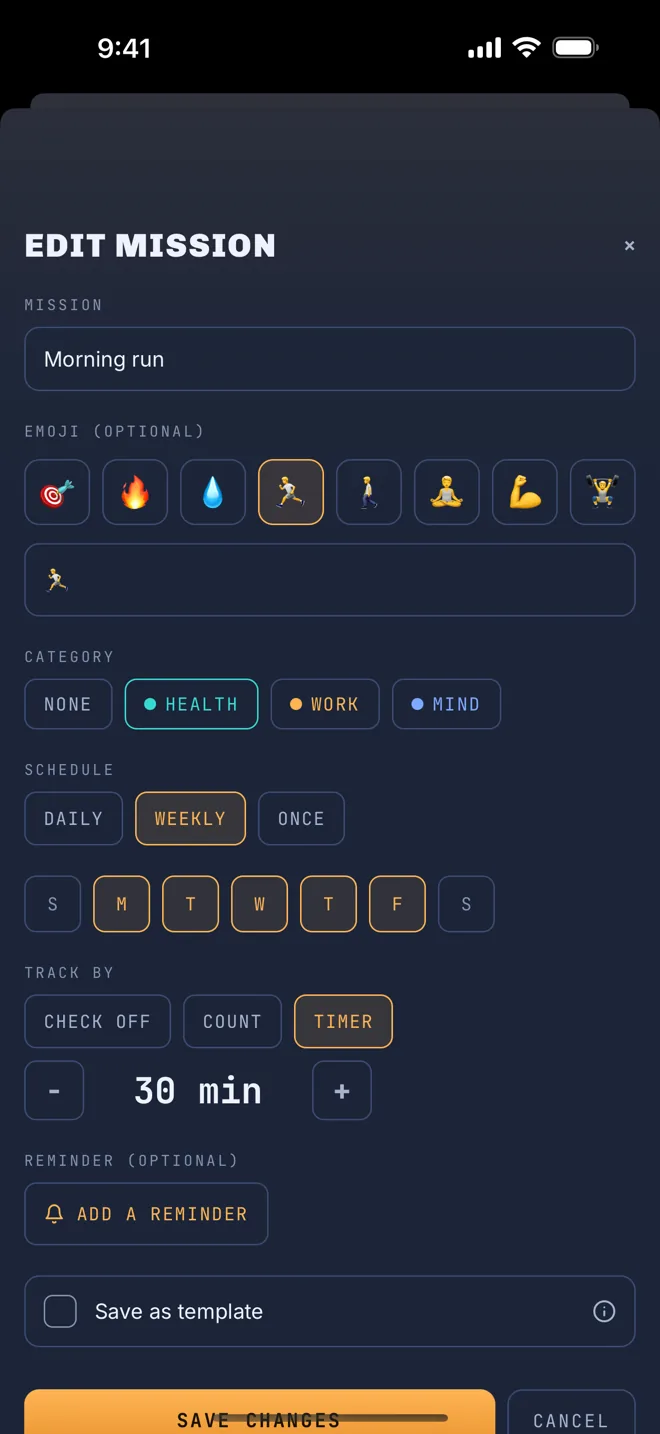
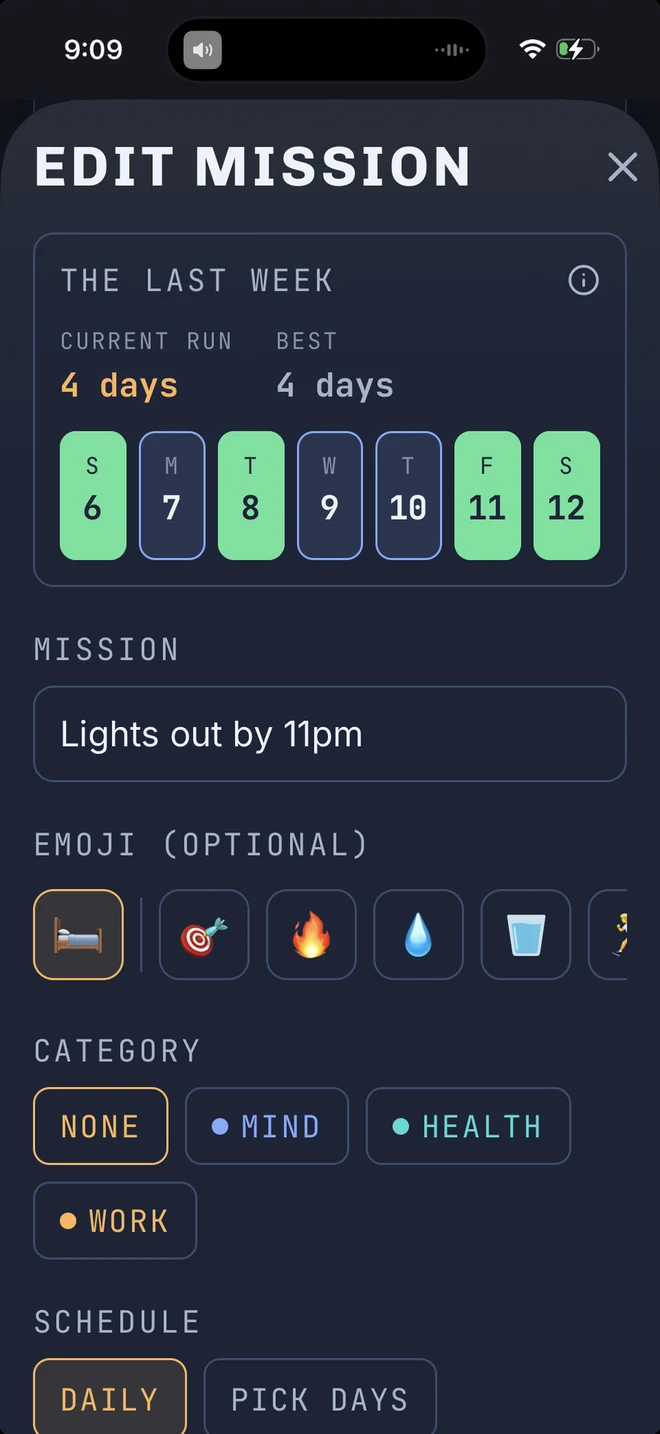
Three more scenes become the screens they claim to be
n2 · the Club tab. It reused s6, which ran the tab strip along the TOP of
the card. This app's tab bar is at the BOTTOM, and that matters here more
than anywhere else in the film: the line says "the third tab", and a
viewer can only check that against a bar where their thumb expects it.
The rank card, the two stacked buttons and the challenge row are the real
screen too. The third tab lights and underlines itself on the line that
names it.

b3 · all or nothing. It reused s3 — another MISSION CONTROL console the
app has never had — and it showed one day completing, which is what b4
does two scenes later. So the film drew the same picture twice and the
RULE, the thing the scene exists for, was never shown at all. Two days
side by side now: one cleared, paying a Tpoint; one short by a single
mission, paying nothing. The short ring is amber rather than faint grey,
which was invisible against its own track.

And the homepage editor shot is a real capture at last. The old one was a
simulator frame at a different UI scale — everything in it rendered
smaller than the three beside it, under a band of modal backdrop — and it
showed an editor that has since changed: WEEKLY/ONCE where the app now
says DAILY / PICK DAYS, and no last-week strip. Alt text and caption
rewritten to describe the screen that is actually there.

Claude-Session: https://claude.ai/code/session_015v4iv7JgLx8rptzk59XzNv

diff --git a/film2.js b/film2.js
@@ -103,6 +103,13 @@ const COPY = {
     'n1.vo': 'You already know what you should be doing. Nobody sticks to it alone.',
 
     /* ---- n2 · pick the thing, pick the people ---- */
+    /* The Club tab, off a photograph of it. */
+    'n2.screen': 'CHECK-IN CLUB',
+    'n2.rankLabel': 'CLUB RANK',
+    'n2.rankName': 'CONTENDER',
+    'n2.score': 'CLUB SCORE',
+    'n2.create': '\u2691 CREATE CHALLENGE',
+    'n2.joinCode': 'I HAVE A JOIN CODE',
     'n2.cap1': 'So pick one thing. Then pick the people who will <span class="hi">notice</span>.',
     'n2.cap2': 'The Check-in Club is the third tab — the only part that needs an account.',
     'n2.cap3': 'Invite-only. <span class="go">Nobody outside it sees a thing.</span>',
@@ -369,6 +376,11 @@ const COPY = {
     'b2.cap2': 'Tap one done, count the water or the pages, or <span class="go">start a timer and work until it rings</span>.',
     'b2.vo': 'Put the things you actually meant to do on it. Tap one done, count the water or the pages, or start a timer and work until it rings.',
 
+    'b3.label': 'TODAY\u2019S TPOINT',
+    'b3.full': '5 of 5 done',
+    'b3.paid': '+1 TPOINT',
+    'b3.short': '4 of 5 done',
+    'b3.nothing': 'NO TPOINT',
     'b3.cap1': 'Clear the whole day and it pays out: <span class="go">one Tpoint</span>.',
     'b3.cap2': 'Miss one and it pays nothing — <span class="hi">the day is what counts</span>, not the task.',
     'b3.vo': 'Clear the whole day and it pays out one Tpoint. Miss one and it pays nothing — the day is what counts, not the task.',
@@ -460,6 +472,12 @@ const COPY = {
     'n1.vo': '該做什麼，你其實都知道。一個人，很難撐下去。',
 
     /* ---- n2 ---- */
+    'n2.screen': '打卡俱樂部',
+    'n2.rankLabel': '俱樂部等級',
+    'n2.rankName': '挑戰者',
+    'n2.score': '俱樂部積分',
+    'n2.create': '\u2691 發起挑戰',
+    'n2.joinCode': '我有邀請碼',
     'n2.cap1': '挑一件事，再找幾個<span class="hi">會在意你有沒有做</span>的人。',
     'n2.cap2': '打卡俱樂部是第三個分頁，也是唯一需要帳號的地方。',
     'n2.cap3': '只能邀請加入。<span class="go">外面的人什麼都看不到。</span>',
@@ -712,6 +730,11 @@ const COPY = {
     'b2.cap2': '打個勾、計次，或<span class="go">按下計時器，專心做到鈴響</span>。',
     'b2.vo': '把你真正想做的事放上去。打個勾、計次，或按下計時器，專心做到鈴響。',
 
+    'b3.label': '今天的 T點數',
+    'b3.full': '5 項全部完成',
+    'b3.paid': '+1 T點數',
+    'b3.short': '5 項完成 4 項',
+    'b3.nothing': '沒有 T點數',
     'b3.cap1': '整天清空，才拿得到<span class="go">一點 T 點數</span>。',
     'b3.cap2': '漏一項就沒有——這裡算的是<span class="hi">一整天</span>，不是單項。',
     'b3.vo': '整天清空才拿得到一點 T 點數。漏一項就沒有，這裡算的是一整天，不是單項。',
@@ -1184,7 +1207,7 @@ function escText(s) { return String(s).replace(/&/g, '&amp;').replace(/</g, '&lt
      Every clip is cut to finish inside its scene's `dur` — see tools/
      generate-vo.mjs, which measures each render and rejects one that would be
      truncated by the scene change. */
-  const VOV = 12;
+  const VOV = 13;
   /* Real check-ins, used in n5. Listed here so warmVO can decode them. */
   const PROOF_SHOTS = ['/assets/proof/run.jpg', '/assets/proof/swim.jpg', '/assets/proof/cycle.jpg'];
   /* The arena cut reuses the combined cut's clips unchanged — it is the same
@@ -2713,6 +2736,117 @@ function buildScenes(ctx, cut) {
     },
   };
 
+  /* b3 · all or nothing, shown as two days.
+     ------------------------------------------------------------------
+     This reused s3, another MISSION CONTROL console that no screen in the
+     app has. It also showed one day completing — which is what b4 does two
+     scenes later, so the film made the same picture twice and the RULE, the
+     thing this scene is for, was never actually shown.
+
+     The rule needs two days to be visible at all: a cleared one pays a
+     Tpoint, and one short by a single mission pays nothing. Side by side is
+     the only way to say "the day is what counts, not the task" without
+     asking the viewer to hold a counterfactual in their head. */
+  const b3 = {
+    id: 'b3', dur: 7800,
+    vo: t('b3.vo'),
+    caps: capsFor('b3'),
+    render(node) {
+      ambient(node, 'rgba(91,227,155,.08)', 900);
+      const c = appCol(node, 640);
+      drift(c, 7800, 1.025);
+
+      const label = el('div', 'fm-mono', {
+        fontSize: '10px', letterSpacing: '.2em', color: COL.dim,
+        textAlign: 'center', marginBottom: '16px', opacity: '0',
+      });
+      label.textContent = t('b3.label');
+      c.appendChild(label);
+      anim(label, [
+        { opacity: 0, transform: 'translateY(8px)' },
+        { opacity: 1, transform: 'translateY(0px)' },
+      ], { duration: 600, easing: EASE, fill: 'both' });
+
+      const row = el('div', null, { display: 'flex', gap: '20px', justifyContent: 'center' });
+      c.appendChild(row);
+
+      const R = 30, CIRC = 2 * Math.PI * R;
+      /** One day, as the ring card on Today draws it. */
+      function day(fraction, doneText, payText, paid) {
+        const card = el('div', 'fm-panel', {
+          width: '250px', flex: '0 0 auto', padding: '22px 20px 20px',
+          textAlign: 'center', opacity: '0',
+          border: '1px solid ' + (paid ? 'rgba(91,227,155,.45)' : COL.line),
+        });
+        const ring = el('div', null, { width: '74px', height: '74px', margin: '0 auto 14px' });
+        ring.innerHTML =
+          '<svg viewBox="0 0 74 74" style="width:74px;height:74px;transform:rotate(-90deg)">' +
+          '<circle cx="37" cy="37" r="' + R + '" fill="none" stroke="' + COL.line + '" stroke-width="5"/>' +
+          '<circle class="js-arc" cx="37" cy="37" r="' + R + '" fill="none" ' +
+          'stroke="' + (paid ? COL.go : COL.amber) + '" stroke-width="5" stroke-linecap="round" ' +
+          'stroke-dasharray="' + CIRC + '" stroke-dashoffset="' + CIRC + '"/></svg>';
+        const doneEl = el('div', 'fm-disp', {
+          fontSize: '18px', fontWeight: '800', color: paid ? COL.ink : COL.dim,
+        });
+        doneEl.textContent = doneText;
+        const payEl = el('div', 'fm-mono js-pay', {
+          fontSize: '13px', marginTop: '9px', letterSpacing: '.06em',
+          color: paid ? COL.go : COL.faint, opacity: '0',
+        });
+        payEl.textContent = payText;
+        card.append(ring, doneEl, payEl);
+        row.appendChild(card);
+        card._arc = ring.querySelector('.js-arc');
+        card._pay = payEl;
+        card._fraction = fraction;
+        return card;
+      }
+
+      const cleared = day(1, t('b3.full'), t('b3.paid'), true);
+      const short = day(0.8, t('b3.short'), t('b3.nothing'), false);
+
+      /* The cleared day lands first and pays. */
+      after(500, () => {
+        anim(cleared, [
+          { opacity: 0, transform: 'translateY(18px) scale(.97)', filter: 'blur(8px)' },
+          { opacity: 1, transform: 'translateY(0px) scale(1)', filter: 'blur(0px)' },
+        ], { duration: 760, easing: EASE, fill: 'both' });
+        anim(cleared._arc, [{ strokeDashoffset: CIRC }, { strokeDashoffset: 0 }],
+          { duration: 900, delay: 260, easing: EASE, fill: 'both' });
+      });
+      after(1700, () => {
+        anim(cleared._pay, [
+          { opacity: 0, transform: 'scale(.7)' },
+          { opacity: 1, transform: 'scale(1.15)' },
+          { opacity: 1, transform: 'scale(1)' },
+        ], { duration: 520, easing: POP, fill: 'both' });
+        anim(cleared, [
+          { boxShadow: '0 0 0 0 rgba(91,227,155,0)' },
+          { boxShadow: '0 0 30px -6px rgba(91,227,155,.5)' },
+          { boxShadow: '0 0 0 0 rgba(91,227,155,0)' },
+        ], { duration: 1100 });
+        sfx.chime();
+        boboTada();
+      });
+
+      /* …and the day that was one mission short arrives beside it, and does
+         not. The ring stops just short on purpose: four fifths of a circle
+         reads as "so close" faster than the number does. */
+      after(3300, () => {
+        anim(short, [
+          { opacity: 0, transform: 'translateY(18px) scale(.97)', filter: 'blur(8px)' },
+          { opacity: 1, transform: 'translateY(0px) scale(1)', filter: 'blur(0px)' },
+        ], { duration: 760, easing: EASE, fill: 'both' });
+        anim(short._arc, [{ strokeDashoffset: CIRC }, { strokeDashoffset: CIRC * (1 - 0.8) }],
+          { duration: 900, delay: 260, easing: EASE, fill: 'both' });
+      });
+      after(4600, () => {
+        anim(short._pay, [{ opacity: 0 }, { opacity: 1 }], { duration: 520, easing: EASE, fill: 'both' });
+        sfx.tick();
+      });
+    },
+  };
+
   /* b4 · the day closes, the streak moves.
      ------------------------------------------------------------------
      This used to reuse s4, which drew five segments filling and a banner
@@ -3093,6 +3227,138 @@ function buildScenes(ctx, cut) {
           sfx.chime();
           boboTada();
         });
+      });
+    },
+  };
+
+  /* n2 · the Check-in Club tab, as the phone actually draws it.
+     ------------------------------------------------------------------
+     This reused s6, which put the tab strip along the TOP of the card. The
+     tab bar is at the BOTTOM of this app, which matters here more than
+     anywhere else in the film: the line says "the third tab", and a viewer
+     can only check that against a bar in the place their thumb expects it.
+     The rank card, the two stacked buttons and the challenge row are the
+     real screen too — it is the first thing anybody sees of this half. */
+  const n2 = {
+    id: 'n2', dur: 12200,
+    vo: t('n2.vo'),
+    caps: capsFor('n2'),
+    render(node) {
+      ambient(node, 'rgba(255,180,84,.09)', 900);
+      const c = appCol(node, 560);
+      drift(c, 12200, 1.02);
+
+      const head = el('div', 'fm-disp', {
+        fontSize: '26px', fontWeight: '900', letterSpacing: '.04em',
+        color: COL.ink, marginBottom: '14px', opacity: '0',
+      });
+      head.textContent = t('n2.screen');
+      c.appendChild(head);
+
+      /* ---- rank card ---- */
+      const rank = el('div', 'fm-panel', { padding: '15px 17px', marginBottom: '12px', opacity: '0' });
+      const rTop = el('div', null, { display: 'flex', justifyContent: 'space-between', alignItems: 'center' });
+      const rLab = el('div', 'fm-mono', { fontSize: '11px', letterSpacing: '.18em', color: COL.dim });
+      rLab.textContent = t('n2.rankLabel');
+      const rName = el('div', 'fm-mono', { fontSize: '13px', letterSpacing: '.1em', color: COL.amber, fontWeight: '700' });
+      rName.textContent = t('n2.rankName');
+      rTop.append(rLab, rName);
+      const rMid = el('div', null, { display: 'flex', alignItems: 'baseline', gap: '10px', marginTop: '8px' });
+      const rNum = el('div', 'fm-disp js-score', { fontSize: '28px', fontWeight: '800', color: COL.ink });
+      rNum.textContent = '10';
+      const rScore = el('div', 'fm-mono', { fontSize: '12px', letterSpacing: '.16em', color: COL.dim });
+      rScore.textContent = t('n2.score');
+      rMid.append(rNum, rScore);
+      const track = el('div', null, {
+        height: '7px', borderRadius: '4px', background: 'rgba(79,91,118,.28)',
+        marginTop: '11px', overflow: 'hidden',
+      });
+      const fill = el('div', null, {
+        height: '100%', width: '0%',
+        background: 'linear-gradient(90deg,' + COL.amberDeep + ',' + COL.amber + ')',
+      });
+      track.appendChild(fill);
+      rank.append(rTop, rMid, track);
+      c.appendChild(rank);
+
+      /* ---- the two ways in, stacked, as the screen stacks them ---- */
+      const create = el('div', 'fm-mono', {
+        borderRadius: '12px', padding: '15px 0', textAlign: 'center', marginBottom: '9px',
+        background: 'linear-gradient(180deg,#FFC46E,' + COL.amber + ')', color: '#1A1206',
+        fontWeight: '800', fontSize: '14px', letterSpacing: '.1em',
+        boxShadow: '0 14px 32px -12px rgba(255,180,84,.6)', opacity: '0',
+      });
+      create.textContent = t('n2.create');
+      const join = el('div', 'fm-mono', {
+        borderRadius: '12px', padding: '14px 0', textAlign: 'center', marginBottom: '12px',
+        border: '1px solid ' + COL.line, color: COL.dim, fontSize: '13px', letterSpacing: '.1em', opacity: '0',
+      });
+      join.textContent = t('n2.joinCode');
+      c.append(create, join);
+
+      const chal = el('div', 'fm-panel', {
+        display: 'flex', alignItems: 'center', gap: '13px',
+        padding: '13px 15px', marginBottom: '16px', opacity: '0',
+      });
+      const emo = el('div', null, { fontSize: '22px', flex: '0 0 auto' });
+      emo.textContent = '🏃';
+      const cm = el('div', null, { flex: '1', minWidth: '0' });
+      const cn = el('div', 'fm-disp', { fontSize: '16px', fontWeight: '700', color: COL.ink });
+      cn.textContent = t('s6.challenge');
+      const cmeta = el('div', 'fm-mono', { fontSize: '10px', color: COL.dim, marginTop: '4px' });
+      cmeta.textContent = t('s6.challengeMeta');
+      cm.append(cn, cmeta);
+      const live = el('span', 'fm-tag', { color: COL.go, borderColor: COL.go, flex: '0 0 auto' });
+      live.textContent = t('s6.live');
+      chal.append(emo, cm, live);
+      c.appendChild(chal);
+
+      /* ---- the tab bar, along the bottom, where the thumb is ---- */
+      const bar = el('div', null, {
+        display: 'flex', borderTop: '1px solid ' + COL.line, paddingTop: '11px', opacity: '0',
+      });
+      const TABS = [t('s6.tabToday'), t('s6.tabStats'), t('s6.tabClub'), t('s6.tabProfile')];
+      const tabEls = TABS.map((label, i) => {
+        const on = i === 2;
+        const tab = el('div', null, { flex: '1', textAlign: 'center' });
+        const glyph = el('div', null, { fontSize: '15px', color: on ? COL.amber : COL.faint, marginBottom: '5px' });
+        glyph.textContent = ['☑', '▥', '👥', '☺'][i];
+        const tx = el('div', 'fm-mono', {
+          fontSize: '9px', letterSpacing: '.12em', color: on ? COL.amber : COL.faint,
+        });
+        tx.textContent = label;
+        tab.append(glyph, tx);
+        bar.appendChild(tab);
+        return tab;
+      });
+      c.appendChild(bar);
+
+      [head, rank, create, join, chal, bar].forEach((n, i) => {
+        after(320 + i * 150, () => {
+          anim(n, [
+            { opacity: 0, transform: 'translateY(13px)' },
+            { opacity: 1, transform: 'translateY(0px)' },
+          ], { duration: 640, easing: EASE, fill: 'both' });
+        });
+      });
+      after(1500, () => {
+        anim(fill, [{ width: '0%' }, { width: '42%' }], { duration: 900, easing: EASE, fill: 'both' });
+        countUp(rNum, 0, 10, 900);
+      });
+
+      /* The line says "the third tab", so the third tab says so back. */
+      after(4200, () => {
+        anim(tabEls[2], [
+          { transform: 'scale(1)' }, { transform: 'scale(1.16)' }, { transform: 'scale(1)' },
+        ], { duration: 620, easing: POP });
+        const underline = el('div', null, {
+          height: '2px', borderRadius: '2px', background: COL.amber,
+          margin: '7px auto 0', width: '60%', transformOrigin: 'center',
+        });
+        tabEls[2].appendChild(underline);
+        anim(underline, [{ transform: 'scaleX(0)' }, { transform: 'scaleX(1)' }],
+          { duration: 480, easing: EASE, fill: 'both' });
+        sfx.pop();
       });
     },
   };
@@ -3692,7 +3958,8 @@ function buildScenes(ctx, cut) {
     return { id: id, dur: dur || scene.dur, vo: t(id + '.vo'), caps: capsFor(id), render: scene.render };
   }
   const n1 = recut(s1, 'n1', 6200);
-  const n2 = recut(s6, 'n2', 12200);
+  /* n2 has its own render now — s6 put the tab strip along the TOP, and
+     this scene is the one that says "the third tab". */
   const n6 = recut(s7, 'n6', 9000);
   const n7 = recut(s8, 'n7', 7000);
   /* The mission list appears ONCE, here, after the challenge has finished —
@@ -3707,7 +3974,8 @@ function buildScenes(ctx, cut) {
   const b1 = recut(s1, 'b1', 7400);
   /* b2 has its own render now — s2 drew a MISSION CONTROL console
      header that no screen in this app has ever had. */
-  const b3 = recut(s3, 'b3', 7800);
+  /* b3 has its own render now — s3 was another MISSION CONTROL console,
+     and it showed a day completing, which is what b4 does two scenes later. */
   /* b4 has its own render now — s4's banner said ALL OBJECTIVES CLEARED,
      which no screen in this app has ever said. */
   const b5 = recut(s5, 'b5', 7600);

diff --git a/index.html b/index.html
@@ -496,9 +496,9 @@
         <figure class="shot">
           <div class="device"><div class="device-frame"><span class="device-screen">
             <img src="/assets/shots/03-editor.webp" width="660" height="1434" loading="lazy" decoding="async"
-                 alt="The mission editor: choosing whether a mission is checked off, counted to a target or timed, and which days it is due." />
+                 alt="The mission editor for Lights out by 11pm: the last week as seven day pills with four of them green, the mission name, an icon picker, categories, and a daily or pick-your-days schedule." />
           </span></div></div>
-          <figcaption class="shot-cap"><b>EDITOR</b>Check off, count to a target, or run a countdown. Daily, chosen weekdays, or a number of times a week.</figcaption>
+          <figcaption class="shot-cap"><b>EDITOR</b>Check off, count to a target, or run a countdown — daily, or the days you pick. The last week sits at the top.</figcaption>
         </figure>
         <figure class="shot">
           <div class="device"><div class="device-frame"><span class="device-screen">

diff --git a/zh/index.html b/zh/index.html
@@ -436,9 +436,9 @@
         <figure class="shot">
           <div class="device"><div class="device-frame"><span class="device-screen">
             <img src="/assets/shots/03-editor.webp" width="660" height="1434" loading="lazy" decoding="async"
-                 alt="任務編輯畫面：選擇這項任務是打勾、計次到目標還是倒數計時，以及哪幾天要做。" />
+                 alt="「晚上 11 點前關燈」的編輯畫面：最上面是最近七天，其中四天是綠色，接著是任務名稱、圖示選擇、分類，以及每天或自選星期幾。" />
           </span></div></div>
-          <figcaption class="shot-cap"><b>編輯</b>打勾、計次到目標，或倒數計時。每天、指定星期幾，或一週幾次。</figcaption>
+          <figcaption class="shot-cap"><b>編輯</b>打勾、計次到目標，或倒數計時——每天，或自己挑星期幾。最近七天就放在最上面。</figcaption>
         </figure>
         <figure class="shot">
           <div class="device"><div class="device-frame"><span class="device-screen">
